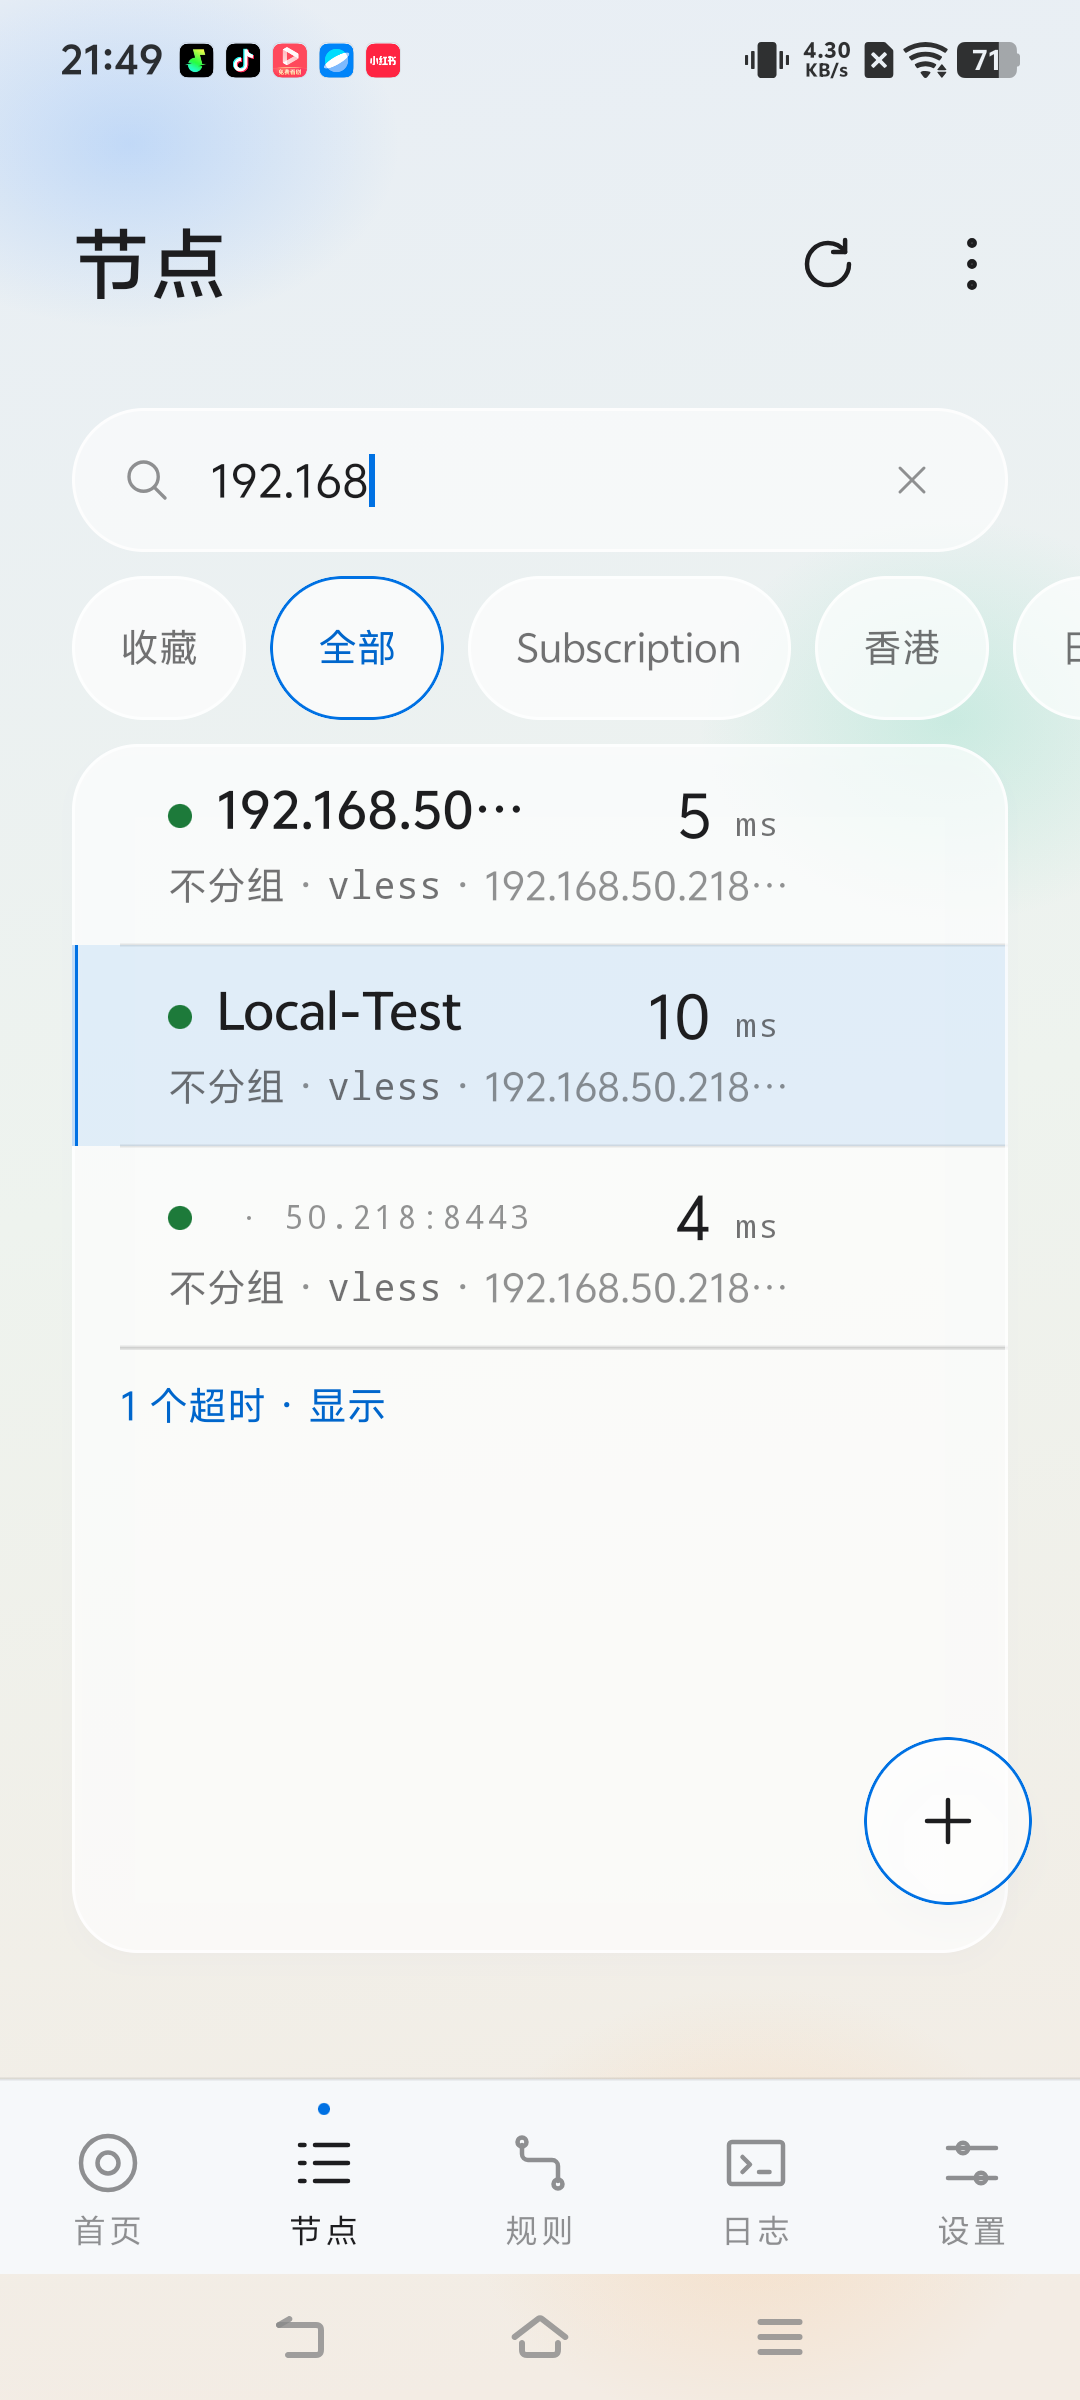
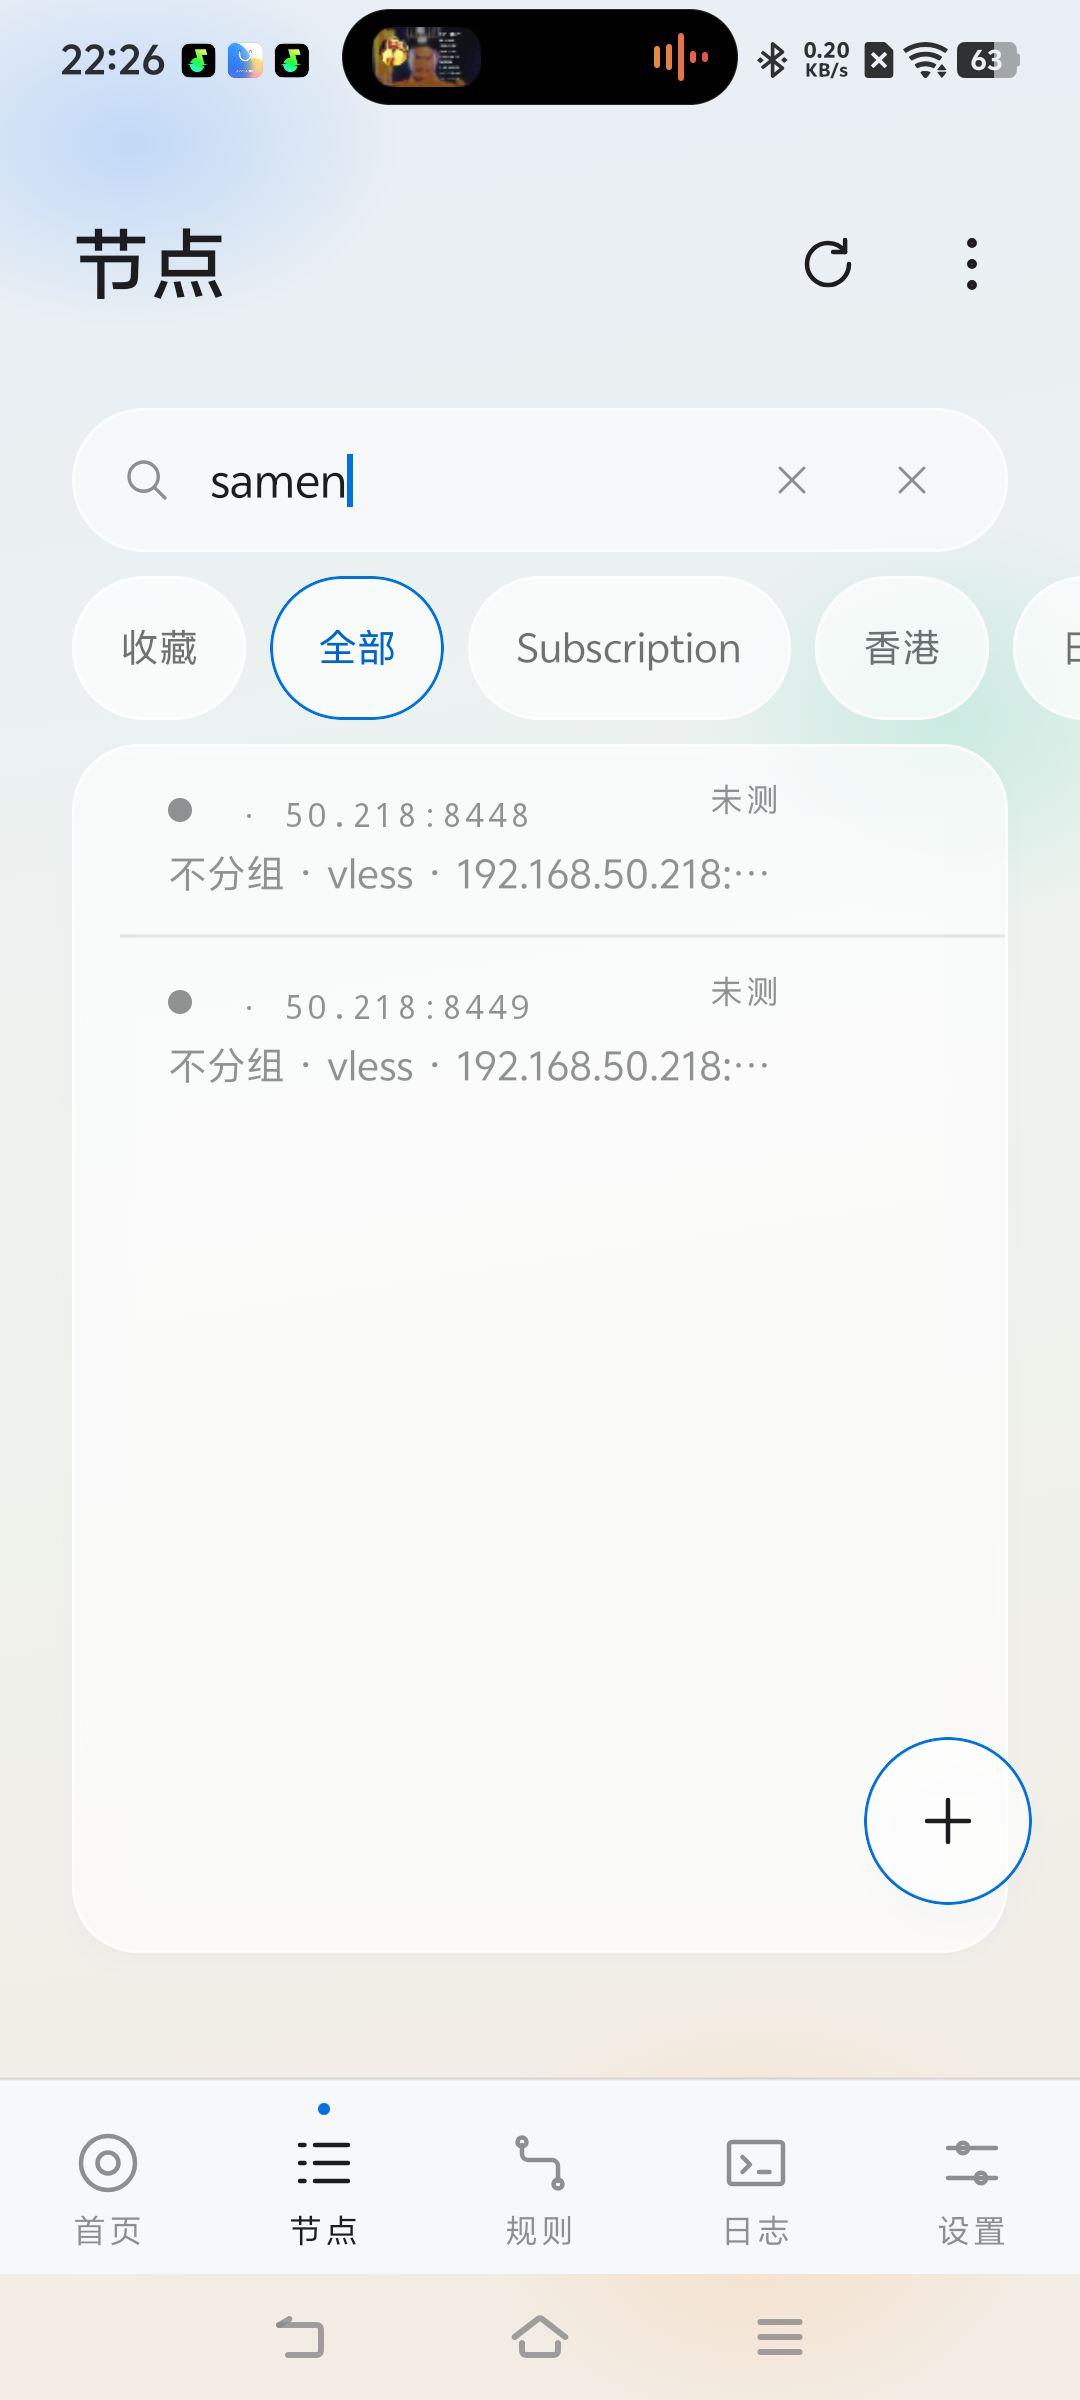
docs: the B-2 pair, captured

diff --git a/docs/11-device-verification.md b/docs/11-device-verification.md
@@ -1896,11 +1896,11 @@ grep 的模式：`secret-host|192\.168|11111111-2222|hunter2|token=abcdef|Zx9Kq2
 | `d5-diagnostic-preview.png` | D-5 | 诊断包预览：版本、内核、计数、DNS、泄漏结果、脱敏日志（`[address redacted]`） |
 | `i5-logs-copy-shown.png` | I-5 | 日志页按钮文案「复制可见」 |
 
-**B-2 的取证说明（诚实记录）**：同名前缀的后缀机制在设备上出现过（`· 192.168.50.218:8443` 与
-`· 192.168.50.218:8444` 并排），但那张截图随后被同一路径覆盖；之后 1000 条基准夹具里能被删/能重复导入的节点
-已不足以稳定造出「同名」一对，当前目录里的 `b2-duplicate-names.png` 只拍到一行带后缀的节点。
-**机制本身由 `ShortAddressTest` 四条单测覆盖**（域名取首段、IP 取末两段、IPv6、同主机不同端口必须不同），
-但「两个同名节点并排」的真机画面这一轮没有留下有效素材，下一轮补拍。
+**B-2 的取证（已补拍）**：`b2-duplicate-names.png` 是两台「同名」节点的并排画面——
+两条都叫 `SameName`，靠名字后的 `· 50.218:8448` / `· 50.218:8449` 区分；第二行仍显示各自的完整地址。
+造法：用两条分享链接导入，端口 8448 / 8449、UUID 不同、fragment 都是 `#SameName`，然后搜索 `samen` 过滤到这两行。
+（第一次补拍失败的原因记在这里：`#Same` 这类短 fragment 导入后名字为空，搜索匹配不到；
+换成 `#SameName` 后正常。`ShortAddressTest` 四条单测仍然覆盖后缀格式本身。）
 
 ### 真机复测中发现并修掉的三个问题
 
